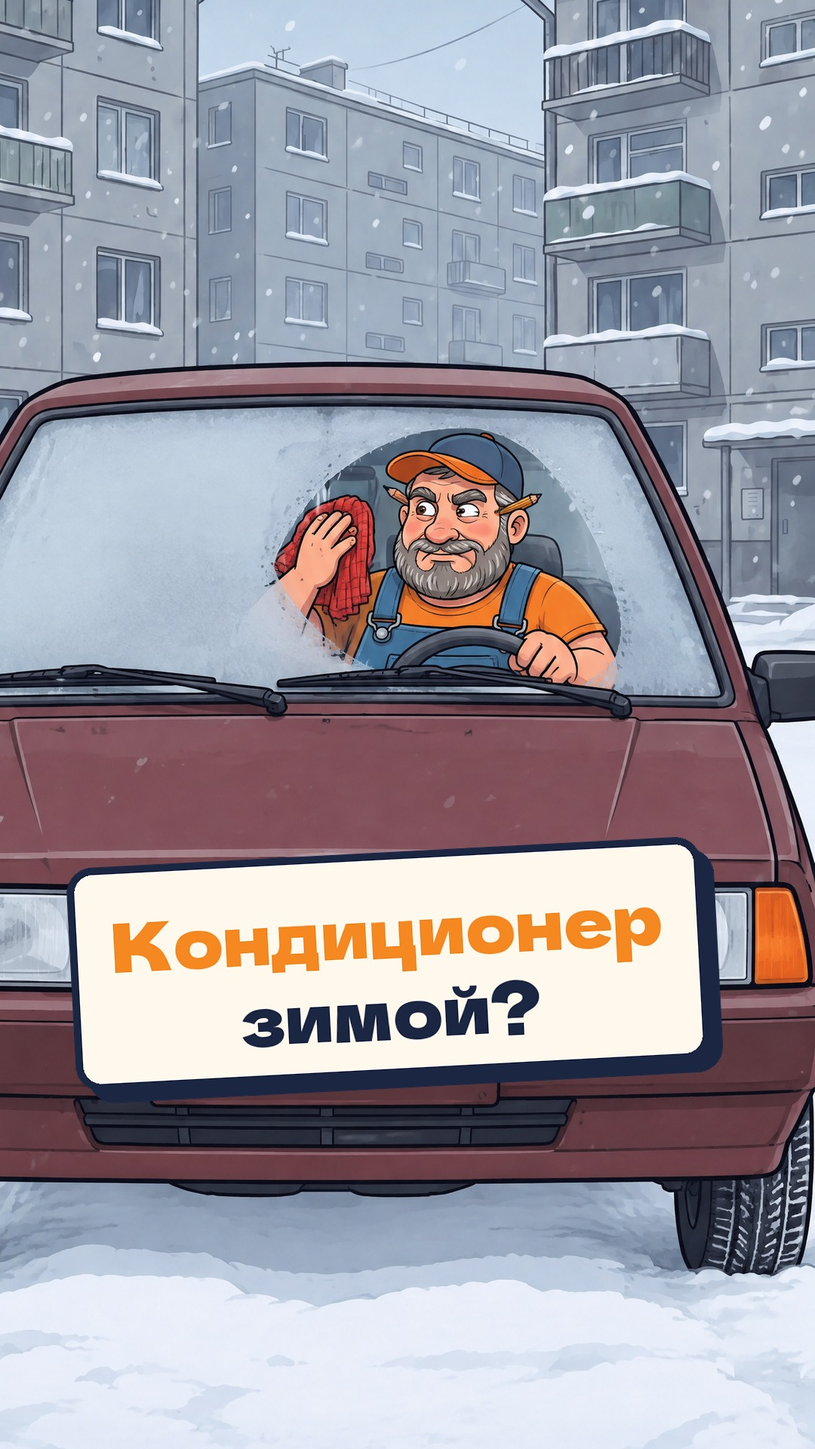
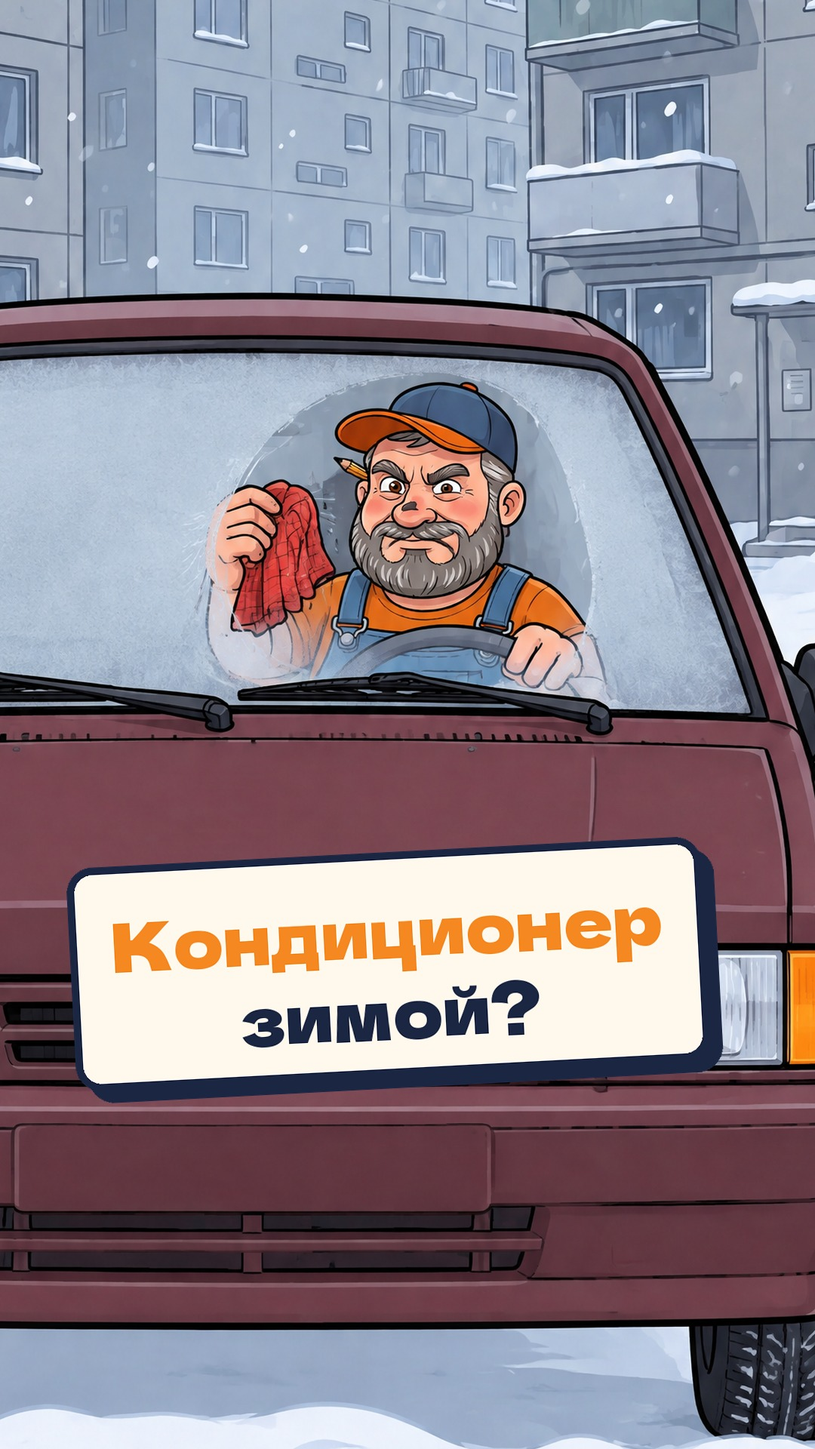
Михалыч эп. 28 «Кондиционер зимой»: исправлены мутации — шесть пальцев на рециркуляции, два карандаша на заставке, сомнительная рука на «снежинке»
Перерисованы кадры k1, k2 и k8, сделаны новые клипы, ролик пересобран (звук без изменений),
обложка собрана из нового кадра, страница роликов обновлена. Отчёт: episodes/winterac/qa/mutation_review.md

Claude-Session: https://claude.ai/code/session_01SUp6ffoGvWzhFKjwtGui4S

diff --git a/gastronom/content-machine/mech/publish2/index.html b/gastronom/content-machine/mech/publish2/index.html
@@ -103,7 +103,7 @@ const EPISODES = [
   {"n": 25, "title": "Можно ли ехать на докатке как на обычном колесе?", "dur": "42 с", "date": null, "file": "mech_spare.mp4", "cover": "mech_spare.jpg", "poster": "mech_spare_poster.jpg", "save": "mihalych_25_dokatka", "plats": [{"name": "YouTube Shorts", "parts": [["Название", "Можно ли гнать на докатке? 🛞 #shorts"], ["Описание", "Докатка — не полноценная запаска, а временное колесо, чтобы доехать до шиномонтажа: по высоте она почти как обычное, но почти в полтора раза уже (125 мм против 175–185 мм). Производители (Kia, Volvo, Nissan) пишут прямо: на докатке не быстрее 80 км/ч. Узкая шина хуже держит дорогу: на мокром асфальте сцепление падает, а при резком торможении машину может увести в сторону. Докатка чуть меньше остальных колёс (на 6–7% по диаметру) и крутится быстрее — электроника тормозов может выдать ошибку. А давление в ней почти вдвое выше, чем в обычном колесе (у Kia — 420 кПа), так что проверь его заранее, пока колесо лежит в багажнике. А ты давно проверял свою докатку? 👇\n#shorts #авто #машина #михалыч"], ["Теги", "докатка, можно ли ездить на докатке, скорость на докатке, докатка 80 км/ч, временное запасное колесо, запаска, давление в докатке, пробил колесо, что делать если пробил колесо, шиномонтаж, советы водителям, михалыч, гараж михалыча, авто, машина, shorts"], ["Закреплённый комментарий", "А у тебя в багажнике докатка или полноразмерная запаска? И когда ты проверял в ней давление? 👇"]]}, {"name": "Instagram Reels", "parts": [["Подпись", "Можно ли ехать на докатке как обычно? 🛞 Досмотри — дело не только в скорости 😉 Отправь тому, кто возит докатку и ни разу её не проверял\n#авто #машина #михалыч"]]}], "queue": 1},
   {"n": 26, "title": "Держать ли сцепление выжатым на светофоре?", "dur": "41 с", "date": null, "file": "mech_redlight.mp4", "cover": "mech_redlight.jpg", "poster": "mech_redlight_poster.jpg", "save": "mihalych_26_sceplenie_na_svetofore", "plats": [{"name": "YouTube Shorts", "parts": [["Название", "Держишь сцепление на светофоре? 🚦 #shorts"], ["Описание", "Пока педаль сцепления выжата, выжимной подшипник давит на лепестки корзины и крутится под нагрузкой. Пару секунд это не страшно — он для этого и сделан. Но если стоять так на каждом долгом красном, подшипник изнашивается зря: со временем он начинает гудеть, а чтобы его поменять, снимают коробку. И есть риск похуже: нога устала, соскользнула с педали — и машина прыгает с места прямо на переход. Правило простое: стоишь дольше 10 секунд — включи нейтраль, отпусти сцепление, а машину держи тормозом. А ты держишь сцепление на светофоре? 👇\n#shorts #авто #машина #михалыч"], ["Теги", "сцепление на светофоре, держать сцепление выжатым, выжимной подшипник, нейтраль на светофоре, механика советы, как стоять на светофоре на механике, ресурс сцепления, сцепление износ, советы водителям, лада 2114, михалыч, гараж михалыча, авто, машина, shorts"], ["Закреплённый комментарий", "Честно: на светофоре держишь педаль или ставишь нейтраль? 👇"]]}, {"name": "Instagram Reels", "parts": [["Подпись", "Держишь сцепление на светофоре? 🚦 Досмотри — дело не только в износе 😬 Отправь тому, кто стоит на красном с педалью в полу\n#авто #машина #михалыч"]]}], "queue": 2},
   {"n": 27, "title": "Нужно ли спускать шины зимой?", "dur": "39 с", "date": null, "file": "mech_tirep.mp4", "cover": "mech_tirep.jpg", "poster": "mech_tirep_poster.jpg", "save": "mihalych_27_davlenie_zimoy", "plats": [{"name": "YouTube Shorts", "parts": [["Название", "Спускать шины зимой? ❄ #shorts"], ["Описание", "Зимой многие спускают шины: мол, пятно контакта шире — машина лучше держит. На льду и асфальте это не работает: держат состав резины и протектор с ламелями — тонкими прорезями. Если шину спустить, ламели сминаются, шина проскальзывает, а тормозной путь становится длиннее (эксперт Пермского Политеха — «За рулём»). А в колее или на яме подспущенная шина может соскочить с диска. Давление снижают только для глубокого снега и сразу подкачивают на асфальте. И помни: на морозе давление падает само — примерно на 0,1 атм на каждые 10 °C. Держи давление по инструкции к машине и проверяй его на холодную. А ты давно проверял давление? 👇\n#shorts #авто #зима #машина #михалыч"], ["Теги", "давление в шинах зимой, спускать шины зимой, нужно ли снижать давление зимой, давление в шинах на морозе, ламели, зимняя резина, тормозной путь зимой, разбортировка, какое давление в шинах, советы водителям зимой, лада 2114, михалыч, гараж михалыча, авто, машина, shorts"], ["Закреплённый комментарий", "А ты зимой спускаешь шины или держишь по инструкции? 👇"]]}, {"name": "Instagram Reels", "parts": [["Подпись", "Спускать шины зимой, чтобы лучше держали? ❄ Досмотри — всё наоборот 😉 Отправь тому, кто «чуть спускает на зиму»\n#авто #зима #машина #михалыч"]]}], "queue": 3},
-  {"n": 28, "title": "Нужно ли зимой включать кондиционер, чтобы окна не потели?", "dur": "41 с", "date": null, "file": "mech_winterac.mp4", "cover": "mech_winterac.jpg", "poster": "mech_winterac_poster.jpg", "save": "mihalych_28_kondicioner_zimoy", "plats": [{"name": "YouTube Shorts", "parts": [["Название", "Кондиционер зимой: нужен или нет? ❄ #shorts"], ["Описание", "Кондиционер сушит воздух: воздух проходит через холодный радиатор (испаритель), влага оседает на нём и стекает по трубке под машину, а сухой воздух быстро очищает запотевшее стекло. Но так он работает, только пока на улице плюс. В мороз компрессор не включается вовсе: его блокирует электроника, даже если лампочка на кнопке горит. У большинства машин порог около нуля, у некоторых — уже +5 °C (ответы производителей — «За рулём», 26.09.2019 и 03.12.2021). В мороз стёкла сушит печка: направь горячий воздух на лобовое и выключи рециркуляцию — иначе по салону ходит по кругу влажный воздух от дыхания и мокрой обуви («За рулём»). А ты включаешь кондиционер зимой? 👇\n#shorts #авто #зима #машина #михалыч"], ["Теги", "кондиционер зимой, запотевают стекла, как убрать запотевание стекол, кондиционер в мороз, компрессор кондиционера зимой, рециркуляция зимой, печка в машине, обдув лобового стекла, запотевание лобового стекла, советы водителям зимой, лада 2114, михалыч, гараж михалыча, авто, машина, shorts"], ["Закреплённый комментарий", "Честно: зимой жмёшь «снежинку» или знал, что в мороз она не работает? 👇"]]}, {"name": "Instagram Reels", "parts": [["Подпись", "Включаешь кондиционер, чтобы окна не потели? ❄ Досмотри — в мороз он не работает, даже если лампочка горит 😉 Отправь тому, кто зимой жмёт «снежинку»\n#авто #зима #машина #михалыч"]]}, {"name": "Telegram-канал", "parts": [["Пост", "❄ Окна потеют — жмёшь кондиционер?\n\nПока на улице плюс — правильно: кондиционер сушит воздух, влага стекает по трубке под машину, и стекло очищается быстро.\n\nА в мороз компрессор не включается вовсе: его блокирует электроника. Лампочка на кнопке горит, а он не работает. У большинства машин порог около нуля, у некоторых — уже +5 °C.\n\nЧто делать в мороз: печку на лобовое и выключить рециркуляцию. Иначе по кругу гоняется влажный воздух от дыхания и мокрой обуви.\n\nИсточник — ответы производителей в «За рулём».\nА ты включаешь кондиционер зимой? 👇"]]}], "queue": 4}
+  {"n": 28, "title": "Нужно ли зимой включать кондиционер, чтобы окна не потели?", "dur": "41 с", "date": null, "file": "mech_winterac_v2.mp4", "cover": "mech_winterac_v2.jpg", "poster": "mech_winterac_v2_poster.jpg", "save": "mihalych_28_kondicioner_zimoy", "plats": [{"name": "YouTube Shorts", "parts": [["Название", "Кондиционер зимой: нужен или нет? ❄ #shorts"], ["Описание", "Кондиционер сушит воздух: воздух проходит через холодный радиатор (испаритель), влага оседает на нём и стекает по трубке под машину, а сухой воздух быстро очищает запотевшее стекло. Но так он работает, только пока на улице плюс. В мороз компрессор не включается вовсе: его блокирует электроника, даже если лампочка на кнопке горит. У большинства машин порог около нуля, у некоторых — уже +5 °C (ответы производителей — «За рулём», 26.09.2019 и 03.12.2021). В мороз стёкла сушит печка: направь горячий воздух на лобовое и выключи рециркуляцию — иначе по салону ходит по кругу влажный воздух от дыхания и мокрой обуви («За рулём»). А ты включаешь кондиционер зимой? 👇\n#shorts #авто #зима #машина #михалыч"], ["Теги", "кондиционер зимой, запотевают стекла, как убрать запотевание стекол, кондиционер в мороз, компрессор кондиционера зимой, рециркуляция зимой, печка в машине, обдув лобового стекла, запотевание лобового стекла, советы водителям зимой, лада 2114, михалыч, гараж михалыча, авто, машина, shorts"], ["Закреплённый комментарий", "Честно: зимой жмёшь «снежинку» или знал, что в мороз она не работает? 👇"]]}, {"name": "Instagram Reels", "parts": [["Подпись", "Включаешь кондиционер, чтобы окна не потели? ❄ Досмотри — в мороз он не работает, даже если лампочка горит 😉 Отправь тому, кто зимой жмёт «снежинку»\n#авто #зима #машина #михалыч"]]}, {"name": "Telegram-канал", "parts": [["Пост", "❄ Окна потеют — жмёшь кондиционер?\n\nПока на улице плюс — правильно: кондиционер сушит воздух, влага стекает по трубке под машину, и стекло очищается быстро.\n\nА в мороз компрессор не включается вовсе: его блокирует электроника. Лампочка на кнопке горит, а он не работает. У большинства машин порог около нуля, у некоторых — уже +5 °C.\n\nЧто делать в мороз: печку на лобовое и выключить рециркуляцию. Иначе по кругу гоняется влажный воздух от дыхания и мокрой обуви.\n\nИсточник — ответы производителей в «За рулём».\nА ты включаешь кондиционер зимой? 👇"]]}], "queue": 4}
 ];
 
 const el = (tag, attrs = {}, ...kids) => {

diff --git a/gastronom/content-machine/mech/episodes/winterac/code/kf_prompts.py b/gastronom/content-machine/mech/episodes/winterac/code/kf_prompts.py
@@ -2,22 +2,26 @@
 import json, sys
 STYLE = "Vertical 9:16 cartoon frame in EXACTLY the same art style as reference image 1 (clean bold black outlines, flat cartoon colours). "
 CHAR = ("CHARACTER: Mikhalych exactly as in reference image 2: stocky mechanic in his fifties, broad round face, rosy cheeks, bushy grey-streaked "
-        "eyebrows, thick short grey-streaked beard, dark-navy cap with an orange visor, pencil behind his ear, light-blue denim bib overalls over an "
+        "eyebrows, thick short grey-streaked beard, dark-navy cap with an orange visor, ONE single pencil tucked behind ONE ear only (exactly one pencil in the whole picture, nothing behind the other ear), light-blue denim bib overalls over an "
         "orange short-sleeve T-shirt, red checked rag in the overalls pocket. ")
 ARMS = "Anatomy: he has exactly two arms and exactly two hands, five fingers on each hand; no third hand, no extra arm; exactly two legs. "
 CAR = "the same burgundy VAZ-2114 hatchback from reference image 1"
 END = " Real-life scale: the car is a real full-size car. No text, no letters, no numbers, no logos."
 BTN = ("Close-up of the centre console of an old Russian car with a plain dark-grey plastic panel: a row of three square buttons; the middle "
        "button carries a simple white snowflake symbol and has a small round indicator lamp. ")
+# v2 (после проверки мутаций): в v1 у k8 было 6 пальцев — палец на кнопке оказался средним; явно задаём правую кисть, большой палец слева
+HAND = ("A man's RIGHT hand in an orange short sleeve comes from the lower left, seen from the back of the hand, and presses {what} with the tip of its INDEX finger; "
+        "the thumb rests relaxed on the LEFT side of the hand, under the index finger; the middle, ring and little fingers are loosely curled to the RIGHT of the index finger. "
+        "Anatomically correct hand: exactly one hand with exactly five digits, one thumb and four fingers, no extra finger. ")
 P = {
  'k1_hook': STYLE + f"A snowy courtyard of grey panel apartment blocks on a frosty winter morning. {CAR} seen straight from the front; its whole windshield is fogged up from the inside, milky white mist. " + CHAR + "He sits in the FRONT driver's seat and has wiped one round clear patch in the fogged windshield with the red checked rag in his right hand; through this clear patch his face is clearly visible, squinting and annoyed; his left hand rests on the top of the steering wheel. The rest of the glass stays milky. " + ARMS + END,
- 'k2_button': STYLE + BTN + "One man's hand in an orange short sleeve presses the snowflake button with the index finger; the button's indicator lamp glows bright green; light air-flow lines come from a dashboard vent above. Exactly one hand, five fingers." + END,
+ 'k2_button': STYLE + "Close-up of the centre console of an old Russian car with a plain dark-grey plastic panel: a row of three square buttons; the middle button carries a simple white snowflake symbol and has a small round indicator lamp glowing bright green; light air-flow lines come from a dashboard vent above. " + HAND.format(what='the snowflake button') + END.strip(),
  'k3_evap': STYLE + "Cartoon technical cutaway of a car climate box hidden under the dashboard, BIG, filling the whole vertical frame, drawn diagonally from top to bottom: at the bottom a fan pushes damp grey air with many small blue water droplets into a cold silver radiator with thin fins (the evaporator), covered with blue frost; on its fins the water collects into big drops that run down into a thin black rubber drain tube going down through the car floor, and drops fall from the tube onto the snow under the car; above the radiator the air comes out clean and dry as white arrows going up toward the windshield. Dark blue background, bold outlines." + END,
  'k4_clear': STYLE + "View from inside the car from the driver's seat toward the windshield: the lower half of the windshield is already clear and the white fog on the glass is retreating upward in a soft arc; warm air streams (light wavy lines) blow up from the defroster vents on top of the dashboard; through the clear glass a snowy courtyard with panel blocks is visible. Only the top of the dashboard and the top of the steering wheel are visible, no gauges, no hands, nobody." + END,
  'k5_btnfrost': STYLE + BTN + "Night, hard frost: the snowflake button's indicator lamp glows green, but behind the console the side window is covered with thick white frost patterns, and a little icicle hangs from the vent. Nobody, no hands." + END,
  'k6_comp': STYLE + "Cartoon close-up under the open bonnet of a car on a freezing night: the air-conditioning compressor, a small round metal unit with a pulley, is covered with white hoarfrost and a little cap of snow; it has a funny cartoon face with closed sleeping eyes; its drive belt runs around the pulley; snowflakes fall, cold blue light. No other faces." + END,
  'k7_heater': STYLE + "Cartoon technical cutaway of a car heater, BIG, filling the whole vertical frame, drawn diagonally from bottom to top: icy blue arrows of fresh frosty outside air come in through the grille under the windshield, pass through a hot glowing orange-red heater radiator, and come out as warm orange arrows that blow onto the inside of a fogged windshield; where they touch the glass, the water droplets turn into thin wisps of vapour and the glass becomes clear. Dark blue background, bold outlines." + END,
- 'k8_recirc': STYLE + "Close-up of the centre console of an old Russian car with a plain dark-grey plastic panel: one man's hand in an orange short sleeve presses a square button with a simple white symbol of a car silhouette with a curved arrow inside it; the button's small indicator lamp goes dark; next to it a round knob points to a simple windshield symbol. Exactly one hand, five fingers." + END,
+ 'k8_recirc': STYLE + "Close-up of the centre console of an old Russian car with a plain dark-grey plastic panel: a square button with a simple white symbol of a car silhouette with a curved arrow inside it, its small indicator lamp is dark; next to it a round knob points to a simple windshield symbol. " + HAND.format(what='that button') + END.strip(),
  'k9_breath': STYLE + f"Inside {CAR}, side view through the open front passenger door area, cold winter evening. " + CHAR + "He sits in the FRONT driver's seat with both hands on the steering wheel and breathes out a big white cloud of steam; the side window and the windshield are covered with fog and drops; his winter boots are wet with melting snow on the rubber floor mat; light circular arrows show the damp air going round and round inside the cabin. " + ARMS + END,
 }
 YARD, MIKH = '08996e99-8177-4b7d-8b13-c1ae3a50f7bb', '87ee183f-9089-4c8d-bbe2-f2bdaec3c14c'

diff --git a/gastronom/content-machine/mech/episodes/winterac/qa/mutation_review.md b/gastronom/content-machine/mech/episodes/winterac/qa/mutation_review.md
@@ -1,0 +1,25 @@
+# Эп. 28 «Кондиционер зимой» — проверка на мутации (21 нояб 2026)
+
+Готовый ролик просмотрен покадрово, по 6 кадров в секунду на всех планах с руками и людьми и по 2 кадра в секунду на схемах.
+Подозрительные места смотрел вблизи в полном разрешении. На каждом кадре считал руки, пальцы и ноги, а также искал лишние или
+сросшиеся предметы.
+
+## Найдено и исправлено
+
+| План | Время в v1 | Дефект | Исправление |
+|---|---|---|---|
+| k8 / c8 «рециркуляция» (F08) | 29,1–32,4 с | **Шесть пальцев.** Слева от пальца на кнопке три согнутых пальца, справа ещё один и большой. Кнопку жмёт средний палец, и рука выглядит как неприличный жест. У правой руки большой палец растёт не с той стороны | Кадр перерисован (k8v2a), в промпте явно задана правая кисть: большой палец слева, указательный жмёт, остальные три согнуты справа. Новый клип c8. С 0,97 до 1,70 с в нём загорается лампочка, а под слова «выключи» это ошибка, поэтому взят отрезок `to=0.93` |
+| k1 / c1 заставка и концовка (F01, F10) | 0–3,4 и 35,6–40,8 с | **Два карандаша**, по одному за каждым ухом, оба заточены. В эталоне Михалыча карандаш один | Кадр перерисован (k1v2b), в промпте: «ONE single pencil… nothing behind the other ear». Новый клип c1 на 5 с. Обложка пересобрана из нового кадра (зум 1,55, иначе лицо мелкое) |
+| k2 / c2 «снежинка» (F02) | 3,4–8,1 с | Сомнительная рука: слева от указательного пальца два бугорка, пальцы не сосчитать однозначно | Кадр перерисован (k2v2b) с тем же описанием кисти. Новый клип c2: лампочка горит весь клип, взят целиком |
+
+Старые кадры лежат в `kf/old/`, старые клипы в `clips/old/`, номера задач генерации записаны в `jobs.txt`.
+
+## Проверено после правки
+- Новые кадры вблизи (`mut/v2_hands_zoom.jpg`): на обеих кнопках пять пальцев, большой палец слева, три пальца согнуты справа.
+- Клип c1, все 30 кадров (`mut/v2_c1_hands.jpg`): один карандаш, две руки, тряпка в правой, левая на руле. Третьей руки нет.
+- Клипы c2 и c8 по 6 кадров в секунду: одна рука и пять пальцев во всех кадрах. На снежинке лампочка зелёная, на рециркуляции в используемом отрезке тёмная.
+- Готовый ролик (40,8 с) на изменённых участках: заставка, снежинка, рециркуляция с подписью «рециркуляция» (стрелка указывает на кнопку), концовка.
+- Звук не менялся: PCM-дорожка v1 и v2 совпадает по md5. Громкость −15,3 LUFS.
+- Без изменений и без дефектов остались испаритель, очистка стекла кодом, кнопка в мороз, спящий компрессор (одно лицо), печка и Михалыч с паром (две руки на руле, две ноги, один карандаш).
+
+`mut/before_after.jpg` — слева v1, справа v2 (сверху вниз: рециркуляция, заставка, снежинка).
